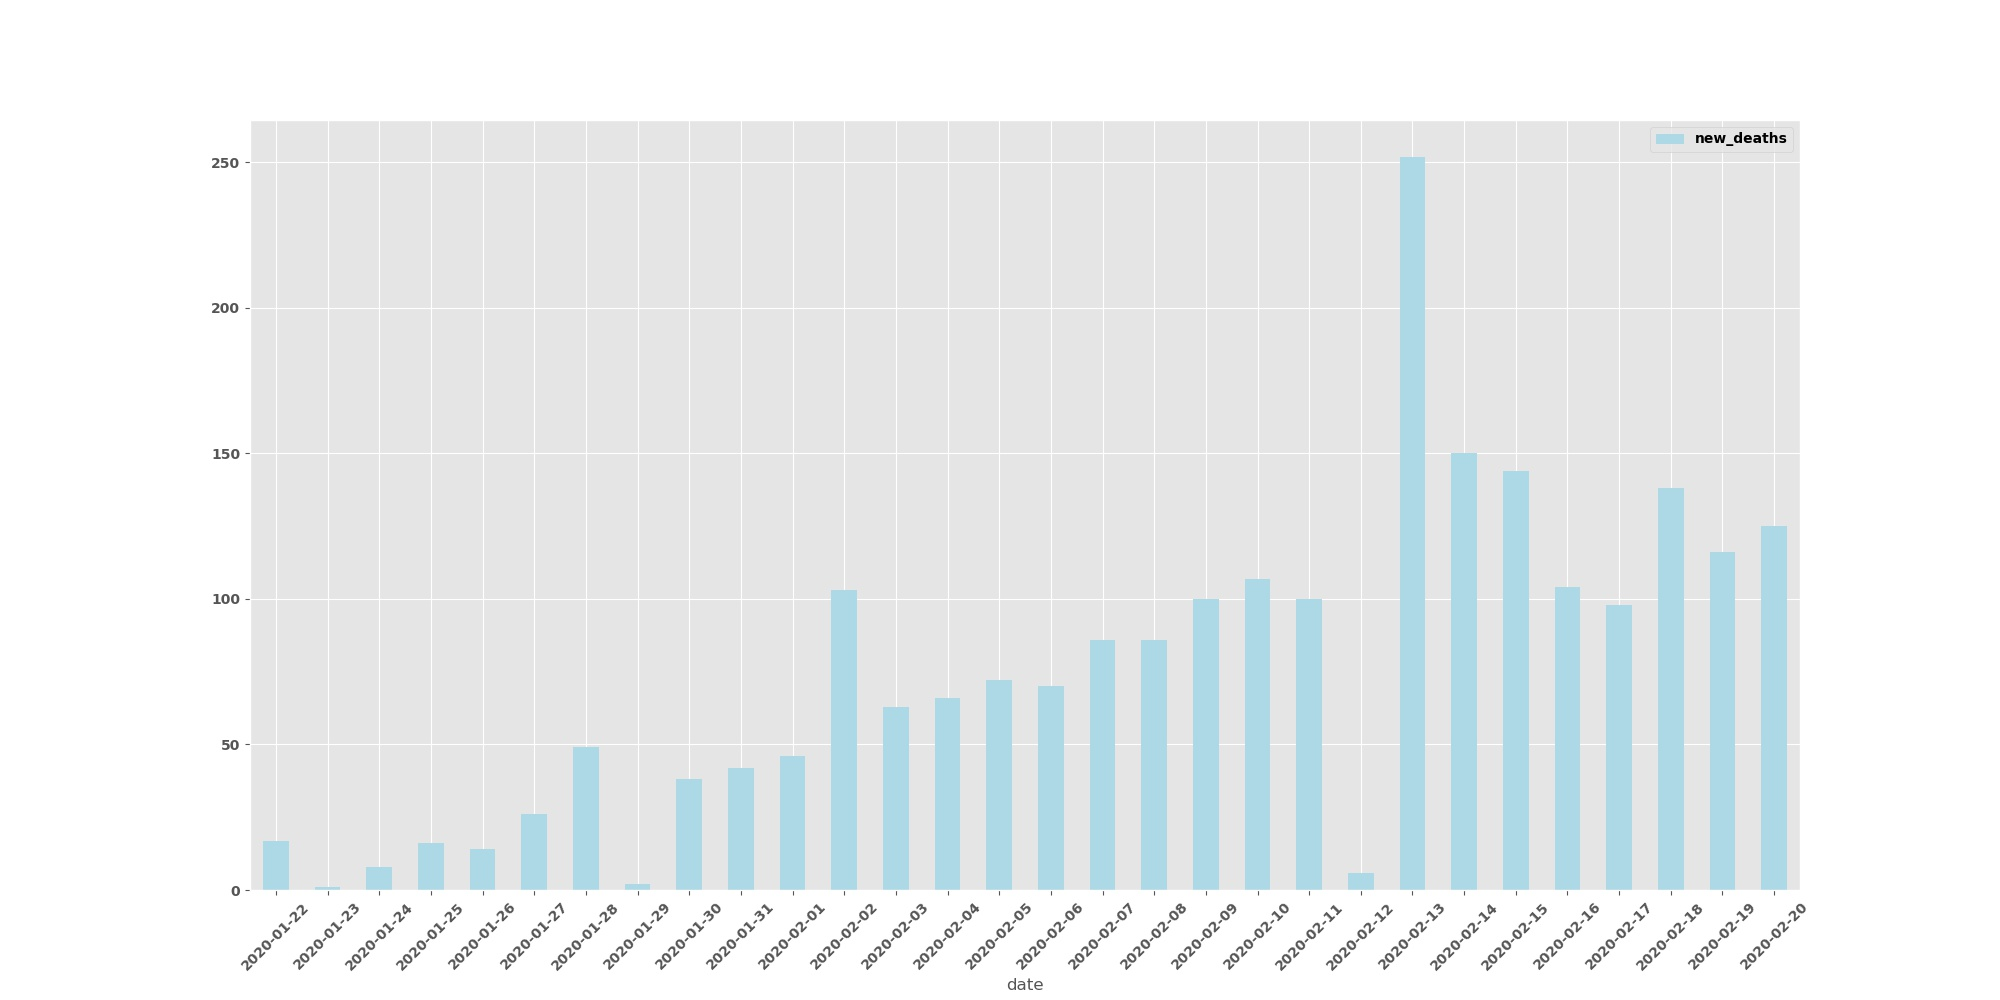
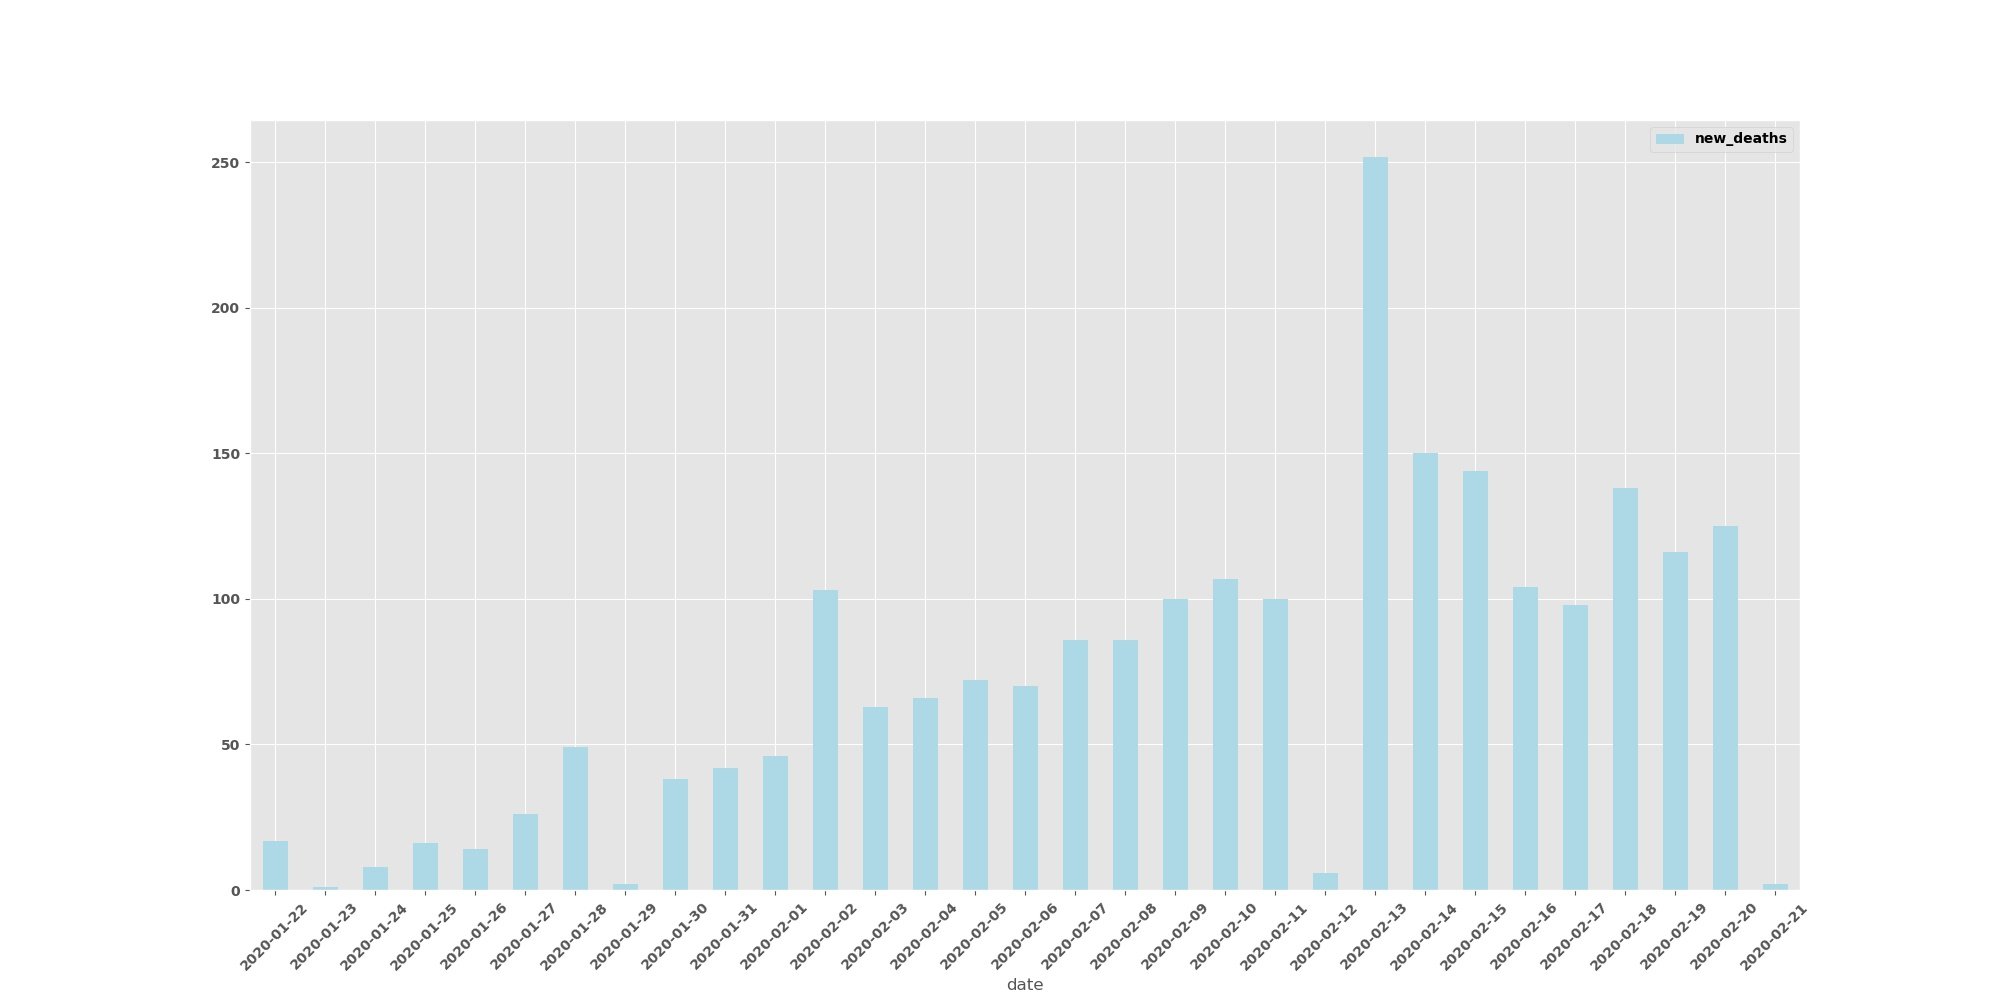
ADD - added report for 22nd feb

Changed region(s): [[0.124, 0.155, 0.899, 0.992]]

diff --git a/README.md b/README.md
@@ -25,7 +25,7 @@ This plots will be updated <u>daily</u> to visualize the trend in accumalitive s
 - **<i>Deaths</i>**
 - **<i>Recoveries.</i>**
 
-Last updated: `2020-02-20`
+Last updated: `2020-02-22`
 
 **Trend Line**
 
